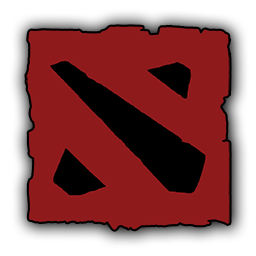
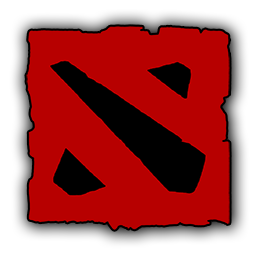
changed header colors

diff --git a/public/index.html b/public/index.html
@@ -128,7 +128,7 @@
             <ul id="nav-menu">
                 <li class="home-nav-item is-hidden">Home</li>
                 <li class="heroes-nav-item is-hidden">Heroes</li>
-                <li class="pros-nav-item is-hidden">Pros</li>
+                <li class="pros-nav-item">Pros</li>
                 <li class="about-nav-item is-hidden">About</li>
             </ul>
         </nav>
@@ -189,7 +189,7 @@
             <p class="footer-links">
                 <span class="home-nav-item">Home</span>
                 <span class="heroes-nav-item is-hidden">Heroes</span>
-                <span class="pros-nav-item is-hidden">Pros</span>
+                <span class="pros-nav-item">Pros</span>
                 <span class="about-nav-item is-hidden">About</span>
             </p>
 

diff --git a/public/scripts/view.js b/public/scripts/view.js
@@ -18,11 +18,13 @@ $('.home-nav-item').on('click', function() {
   // if ($(window).width() < 781) {
   //   $('.home-nav-item').toggleClass('is-visible');
   // }
+  $('.container').hide()
+  $('#hero-view').show()
   $('html').animate({scrollTop:0}, 600);
   $('.fullscreen-bg').css('background', `url(../img/allHeroesEdited.jpg) center center / cover no-repeat`);
 })
 
 
-
-
-
+$('.pros-nav-item').on('click', function() {
+  initProPage();
+})

diff --git a/public/styles/modules.css b/public/styles/modules.css
@@ -18,7 +18,7 @@ header h3 {
 }
 
 header h3 span {
-  color: #832522
+  color: #b60500
 }
 
 #icon {
@@ -34,7 +34,7 @@ header h3 span {
   font-size: 25px;
   height: 2.2em;
   line-height: 2.2em;
-  background-color: #8d1c17;
+  background-color: #b60500;
 }
 
 #nav-menu li:hover {
@@ -91,6 +91,10 @@ header h3 span {
   border-radius: 2px;
 }
 
+#pro-view-table {
+  text-align: center;
+  valign: middle;
+}
 
 /* Desktop Styling */
 

diff --git a/public/scripts/pro.js b/public/scripts/pro.js
@@ -28,7 +28,7 @@ function setPro(proData){
 function appendProView() {
   console.log('inside appendProView', Pro.all)
   $('.container').hide()
-//   $('#pro-view-table tr').empty()
+  $('tr').empty()
   $('#pro-view').show()
   Pro.all.forEach((team) => {
     $('#pro-view-table').append(team.toHtml())

diff --git a/public/styles/base.css b/public/styles/base.css
@@ -1,6 +1,7 @@
 body {
   color: #fff;
   font: Cinzel, helvetica, sans-serif;
+  cursor: default;
 }
 
 .fullscreen-bg {

diff --git a/public/styles/footer.css b/public/styles/footer.css
@@ -21,7 +21,7 @@
 	}
 	
 	.footer-box h3 span {
-	color:#832522
+	color:#b60500;
 	}
 	
 	.footer-box .footer-links {
